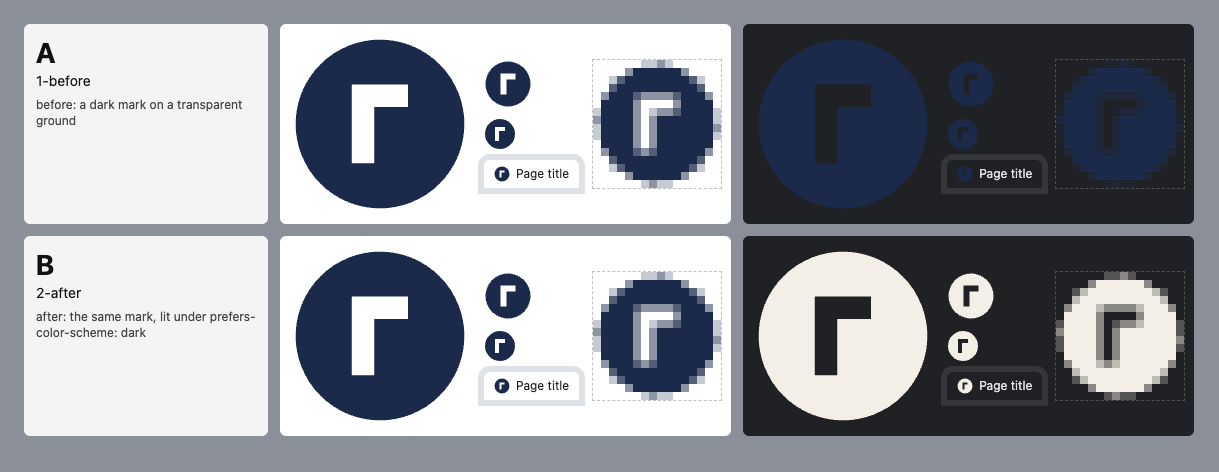
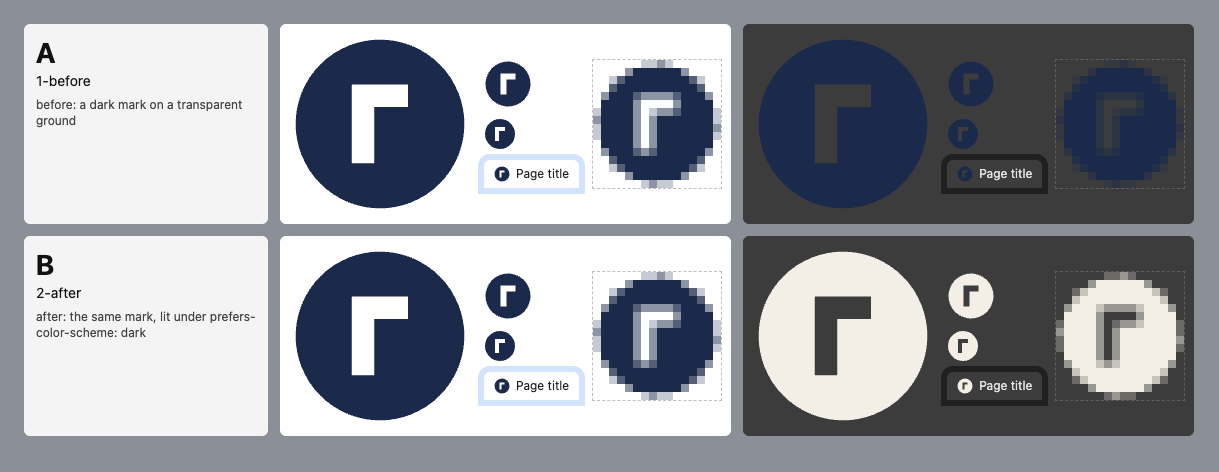
feat: measured Chrome tab colours as the defaults (#6)

Changed region(s): [[0.5923, 0.0297, 0.9975, 0.9492], [0.904, 0.6525, 0.9352, 0.7712], [0.904, 0.2076, 0.9352, 0.3263]]

diff --git a/src/check.ts b/src/check.ts
@@ -36,8 +36,8 @@ export interface CheckReport {
 }
 
 export const DEFAULTS: CheckOptions = {
-  light: ['#ffffff', '#dee1e6'],
-  dark: ['#202124', '#35363a'],
+  light: ['#ffffff', '#d3e3fd'],
+  dark: ['#3c3c3c', '#1f2020'],
   plateScheme: 'auto',
   minRatio: 3,
   minShare: 0.75,

diff --git a/README.md b/README.md
@@ -13,9 +13,9 @@ $ npx tabcheck check icon.svg
 FAIL  icon.svg
   · [safe-zone] ink reaches 241 px from centre at 512; maskable: draw the mark at most 421 px, centred (export does this for you)
   · [contrast] light #ffffff: 100% of the mark at >= 3:1 (median 14.22:1, need 75%)
-  · [contrast] light (inactive tab) #dee1e6: 100% of the mark at >= 3:1 (median 10.85:1, need 75%)
-  ✗ [contrast] dark #202124: 0% of the mark at >= 3:1 (median 1.13:1, need 75%)
-  ! [contrast] dark (inactive tab) #35363a: 0% of the mark at >= 3:1 (median 1.18:1, need 75%)
+  · [contrast] light (inactive tab) #d3e3fd: 100% of the mark at >= 3:1 (median 10.95:1, need 75%)
+  ✗ [contrast] dark #3c3c3c: 0% of the mark at >= 3:1 (median 1.29:1, need 75%)
+  ! [contrast] dark (inactive tab) #1f2020: 0% of the mark at >= 3:1 (median 1.15:1, need 75%)
 ```
 
 ## Quick start
@@ -79,12 +79,16 @@ recognise is an error rather than a silent black.
 
 | | Active tab (gated) | Inactive strip (warns) |
 | --- | --- | --- |
-| Light | `#ffffff` | `#dee1e6` |
-| Dark | `#202124` | `#35363a` |
+| Light | `#ffffff` | `#d3e3fd` |
+| Dark | `#3c3c3c` | `#1f2020` |
 
-These are Chrome's default-theme tab colours. Chrome derives them from the user's theme, so treat
-them as a sensible default rather than the only truth, and override them with `--light '#a,#b'`
-and `--dark '#a,#b'`.
+Measured from Chrome 156's default theme on macOS, November 2026 (screenshots converted from the
+display profile to sRGB). In dark mode the active tab is the *lighter* of the two, so a mid-tone
+mark has less room than on the old near-black tab. Chrome derives these from the user's theme, so
+treat them as a sensible default rather than the only truth, and override them with
+`--light '#a,#b'` and `--dark '#a,#b'`.
+
+The image at the top is `npx tabcheck sheet docs/img/src --out docs/img/sheet.png --no-pngs`.
 
 ## `sheet`: compare designs
 

diff --git a/docs/history.md b/docs/history.md
@@ -34,3 +34,9 @@ CI `action` job: the PR's own tarball on ubuntu, macOS and Windows × `install-b
 Panel (security, correctness, backend; 6 distinct findings, all fixed): option injection via a `-`-leading path line (`--browser=./x` would pick the executable launched); the must-fail accepted any failure; `v1` could move before a staged version is live; the caller's `.npmrc` applied; a CI comment overclaimed the browser paths; `v*` tags were unprotected (now the `release tags` ruleset: create/update/delete, repo-admin bypass). `release.yml` triggers on `vX.Y.Z` only, so moving `v1` starts no release (checked after the first `v1` push).
 
 Measured while building: inside a container `${{ github.workspace }}` is the host path; `$GITHUB_WORKSPACE` is right in containers and on Windows (bash's `$PWD` there is `/d/a/...`, which Windows npm cannot open). One `verify (24)` run timed out launching Chromium in `beforeAll` and passed on re-run (cause unknown, untouched code). One `--with-deps` install took 8.5 min on a slow Azure apt mirror.
+
+## 2026-11-05: 0.2.0, measured tab colours
+
+New defaults, Chrome 156 default theme on macOS: light `#ffffff` / `#d3e3fd`, dark `#3c3c3c` / `#1f2020` (was `#ffffff`/`#dee1e6`, `#202124`/`#35363a`). Light came from Adrian's screenshot, tagged with the display profile ("Color LCD"): raw pixels read `#d6e2fb`, converted to sRGB `#d3e3fd`. Dark is the earlier one-off capture (not re-converted; neutral greys move by about one step). In dark mode the active tab is now the lighter of the two.
+
+Effects: `fixtures/good.svg` (one orange) fell to 2.99:1 on `#3c3c3c` and moved from `#e4572e` to `#ea6540` (3.26:1 on white, 3.38:1 on dark): a single colour now has a narrow band. brandtstack.com's own `icon.svg` now **fails** dark at 73 % (needs 75 %). The README sheet was rebuilt from its sources, now tracked in `docs/img/src/`.
